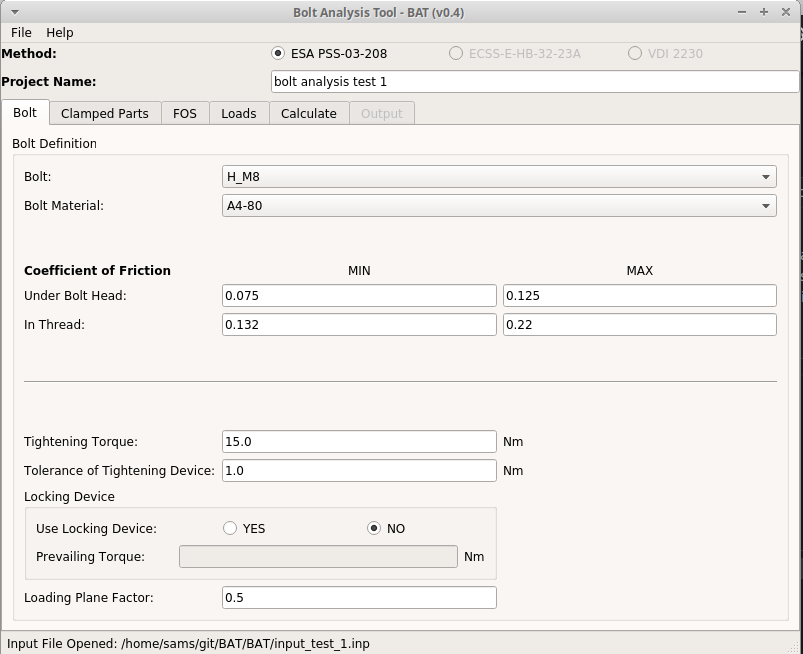
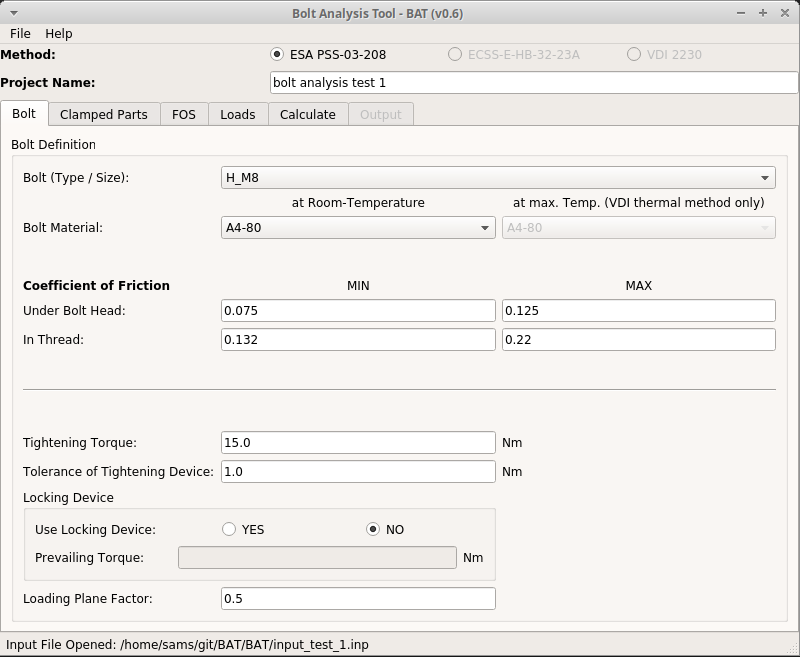
v0.6 commit

diff --git a/BAT/src/bat_qt_gui.py b/BAT/src/bat_qt_gui.py
@@ -10,7 +10,7 @@ from PyQt5 import QtWidgets, uic, QtCore, QtGui
 from PyQt5.QtWidgets import QFileDialog, QMessageBox
 from PyQt5.Qt import Qt, QApplication, QClipboard
 
-# TODO: implement logging
+# TODO: implement consitent logging
 
 # inherit correct QMainWindow class as defined in UI file (designer)
 class Ui(QtWidgets.QMainWindow):
@@ -354,13 +354,39 @@ class Ui(QtWidgets.QMainWindow):
                 self.loadsTable.removeRow(key-row_offset)
                 row_offset += 1
 
-    # save input file button pressed
+    # save input file button pressed (equal to save-as)
     def saveInputFilePressed(self):
-        print("Save Input File")
+        self.menuSaveAs()
  
     # save output file button pressed
     def saveOutputFilePressed(self):
-        print("Save Output File")
+        # define output file
+        options = QFileDialog.Options()
+        options |= QFileDialog.DontUseNativeDialog
+        dialog = QFileDialog() # file-dialog
+        dialog.setOptions(options)
+        dialog.setDirectory(str(self.inp_dir))
+        outputFileName, _ = dialog.getSaveFileName(self,\
+            "BAT Output File",\
+            "",\
+            "BAT Output Files (*.out)")
+        if outputFileName:
+            # set fields in calculate tab & check if "out" is already added to file name
+            tmp = outputFileName.split('.')
+            if len(tmp) == 1 or (len(tmp) == 2 and tmp[1] == "out"):
+                outputFileName = tmp[0]+".out"
+            else:
+                if not self.inputFile.text():
+                    outputFileName = ""
+                else:
+                    outputFileName = self.inputFile.text().split('.')[0]+".out"
+                log_str = "ERROR: output file name not correct - do not use any special characters"
+                print(log_str)
+                logging.warning(log_str)
+            # set output-file in gui-widget
+            self.outputFile.setText(outputFileName)
+            print("Output-file redefined: " + outputFileName)
+            logging.info("Output-file redefined: " + outputFileName)
 
     # calculate button pressed
     def calculatePressed(self):
@@ -379,9 +405,9 @@ class Ui(QtWidgets.QMainWindow):
             else:
                 print("Method not implemented in current BAT version.")
         else:
-            print("Input does not match opened input file - save input file.")
-            self.MessageBox(QMessageBox.Warning, "GUI Input vs. Input-File Missmatch",\
-                "Input does not match opened input file - save input file.",\
+            print("Input does not match opened input file - save input file first.")
+            self.messageBox(QMessageBox.Warning, "GUI Input vs. Input-File Missmatch",\
+                "Input does not match opened input file - save input file first.",\
                 "Deviating Items:\n{0:^}".format(str(compare)))
 
     # MENU - new
@@ -533,13 +559,24 @@ class Ui(QtWidgets.QMainWindow):
 
     # MENU - save
     def menuSave(self):
-        print(self.openedInputFile.print())
-        print("save")
-        self.readGuiInputs()
-        self.gih.print()
-        compare = self.gih.compareInput(self.openedInputFile)
-        print("Compare: ", compare)
-        self.gih.saveInputFile("/home/sams/git/BAT/BAT/test_.inp")
+        self.readGuiInputs() # read gui inputs
+        if self.openedInputFile: # check if input-file is already opened
+            compare = self.gih.compareInput(self.openedInputFile) # compare to opened input file
+            if compare:
+                mbox = self.messageBox(QMessageBox.Information, "Save Info",\
+                    "Input changed - saveing input file will overwrite following inputs:",\
+                    "Deviating Items:\n{0:^}".format(str(compare)), "OkCancel")
+                if mbox == QMessageBox.Ok:
+                    self.gih.saveInputFile(self.openedInputFile.input_file)
+                    print("Input-file saved: " + str(self.openedInputFile.input_file))
+            else: 
+                self.gih.saveInputFile(self.openedInputFile.input_file)
+                print("Input-file saved: " + str(self.openedInputFile.input_file))
+            # reopen new input file
+            self.openInput(str(self.openedInputFile.input_file))
+        else:
+            # if no input file loaded - save-as new input file
+            self.menuSaveAs()
 
     # MENU - save as
     def menuSaveAs(self):
@@ -558,16 +595,24 @@ class Ui(QtWidgets.QMainWindow):
             "",\
             "BAT Input Files (*.inp)")
         if savedFileName:
-            # save GUI inputs into file
-            self.gih.saveInputFile(savedFileName)
-            print("Input-file saved: " + savedFileName)
-            logging.info("Input-file saved: " + savedFileName)
-            # set fields in calculate tab
-            self.inputFile.setText(savedFileName)
-            outp_file = savedFileName.split('.')[0]+".out"
-            self.outputFile.setText(outp_file)
-            # reopen new input file
-            self.openInput(savedFileName)
+            # check if "inp" is already added to file name
+            tmp = savedFileName.split('.')
+            if len(tmp) == 1 or (len(tmp) == 2 and tmp[1] == "inp"):
+                savedFileName = tmp[0]+".inp"
+                # save GUI inputs into file
+                self.gih.saveInputFile(savedFileName)
+                print("Input-file saved: " + savedFileName)
+                logging.info("Input-file saved: " + savedFileName)
+                # set fields in calculate tab
+                self.inputFile.setText(savedFileName)
+                outp_file = savedFileName.split('.')[0]+".out"
+                self.outputFile.setText(outp_file)
+                # reopen new input file
+                self.openInput(savedFileName)
+            else:
+                log_str = "ERROR: input file name not correct - do not use any special characters"
+                print(log_str)
+                logging.warning(log_str)
 
     # read gui entries and store to GuiInputHandler
     def readGuiInputs(self):
@@ -666,15 +711,18 @@ class Ui(QtWidgets.QMainWindow):
 
     # display gui error-messagebox
     # QMessageBox.Information, Warning, Critical
-    def MessageBox(self, type, title, text, det_text=None):
+    def messageBox(self, type, title, text, det_text=None, button_opt="Ok"):
         msg = QMessageBox()
         msg.setIcon(type)
         msg.setText("{0:^}".format(text))
         msg.setWindowTitle(title)
         if det_text is not None:
             msg.setDetailedText(det_text)
-        msg.setStandardButtons(QMessageBox.Ok)
-        retval = msg.exec_()
+        if button_opt == "Ok":
+            msg.setStandardButtons(QMessageBox.Ok)
+        elif button_opt == "OkCancel":
+            msg.setStandardButtons(QMessageBox.Ok | QMessageBox.Cancel)
+        return msg.exec_()
 
     # use data in clipboard and paste loads from excel
     def pasteFromExcel(self):
@@ -705,7 +753,7 @@ class Ui(QtWidgets.QMainWindow):
                     self.loadsTable.setItem(i,3,QtWidgets.QTableWidgetItem(row_items[3]))
                 else:
                     print("ERROR: Excel load format incorrect.")
-                    self.MessageBox(QMessageBox.Warning, "Excel Load Error",\
+                    self.messageBox(QMessageBox.Warning, "Excel Load Error",\
                         "ERROR: Excel load format incorrect.")
                     break
 

diff --git a/BAT/bat_main.py b/BAT/bat_main.py
@@ -11,10 +11,11 @@ import src.EsaPss as esapss
 import src.functions.exceptions as ex
 import src.bat_qt_gui as bat_qt_gui
 
-__version__ = "0.5"
+__version__ = "0.6"
 """
 Change Log:
-
+v0.6 - 01.09.2020
+- Save-methods finished
 v0.5 - 26.07.2020
 - FQ bug corrected
 - Save-as method implemented
@@ -42,7 +43,7 @@ def main():
     log_file = work_dir+"/bat.log"
     logging.basicConfig(filename=log_file, filemode='w',
         format="%(asctime)s %(levelname)-8s %(message)s",
-        level=logging.DEBUG,
+        level=logging.INFO,
         datefmt="%Y-%m-%d %H:%M:%S")
     log_header_str = "BAT run started\n#\n# Bolt Analysis Tool (BAT) Log-File\n"\
         "#\n# BAT-Version: {0:^}\n#".format(__version__)
@@ -143,7 +144,7 @@ def main():
         # print successful end of BAT analysis
         print("#\n# ERROR --> go to \"bat.log\" file\n# BAT analysis terminated: " + str(e))
         logging.error("BAT run terminated due to fatal error: " + str(e))
-    else:
+    finally:
         # print successful end of BAT analysis
         print("#\n# END of BAT analysis")
         logging.info("BAT run successfully finished")

diff --git a/BAT/src/gui/GuiInputHandler.py b/BAT/src/gui/GuiInputHandler.py
@@ -74,7 +74,6 @@ class GuiInputHandler:
             compare_items.append("*SUBST_DA")
         if self.clamped_parts != inp_file.clamped_parts:
             compare_items.append("*CLAMPED_PARTS(i)")
-            print(self.clamped_parts, inp_file.clamped_parts)
         if self.fos_y != inp_file.fos_y:
             compare_items.append("*FOS_Y")
         if self.fos_u != inp_file.fos_u:
@@ -95,7 +94,6 @@ class GuiInputHandler:
             compare_items.append("*TEMP_USE_SHIM")
         if self.temp_clamped_parts != inp_file.temp_clamped_parts:
             compare_items.append("*TEMP_CLAMPED_PARTS")
-            print(self.temp_clamped_parts, inp_file.temp_clamped_parts)
         # return compare_items
         return compare_items
 

diff --git a/BAT/src/EsaPss.py b/BAT/src/EsaPss.py
@@ -118,7 +118,7 @@ class EsaPss:
         #self.inp_file.through_hole_diameter = 8.4
         #self.Asub = math.pi/4*(self.used_bolt.dh**2-self.inp_file.through_hole_diameter**2+math.pi/8*\
         #    (self.used_washer.dmaj/self.used_bolt.dh-1)*(self.used_bolt.dh*self.lk/5+\
-        #        self.lk**2/100)) # with wront parentheses 
+        #        self.lk**2/100)) # with wrong parentheses 
         #self.Asub = math.pi/4*( self.used_bolt.dh**2-self.inp_file.through_hole_diameter**2 ) +\
         #    math.pi/8*( self.used_washer.dmaj/self.used_bolt.dh-1 ) *\
         #        ( self.used_bolt.dh*self.lk/5+self.lk**2/100 ) # with corrected parentheses

diff --git a/README.md b/README.md
@@ -33,9 +33,13 @@ $ python bat_main.py --help
 ```shell
 $ python bat_main.py --gui
 ```
-![Example Screenshot BAT v0.4](https://github.com/misams/BAT/blob/master/BAT/doc/bat_example.png)
+![Example Screenshot BAT v0.6](https://github.com/misams/BAT/blob/master/BAT/doc/bat_example.png)
 
 ## Changelog
+### v0.6
+>01.09.2020
+- Save-methods finished
+
 ### v0.5
 >26.07.2020
 - FQ bug corrected
